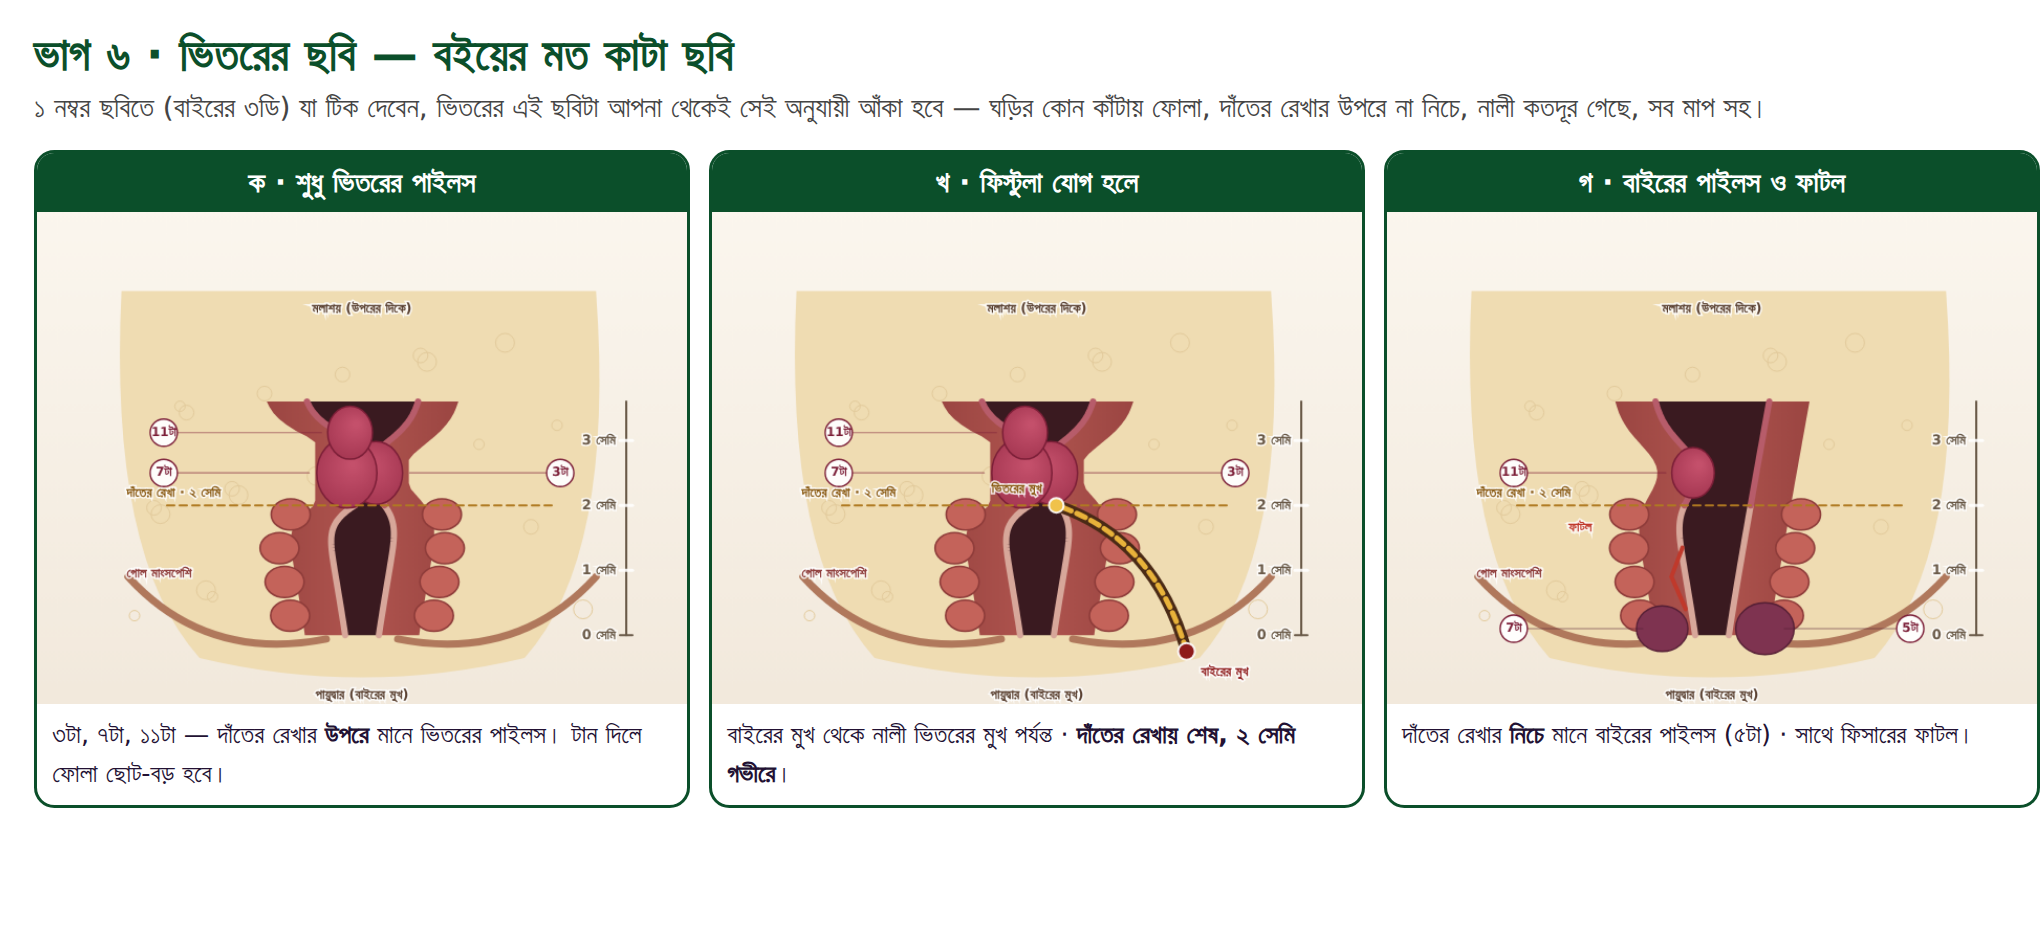
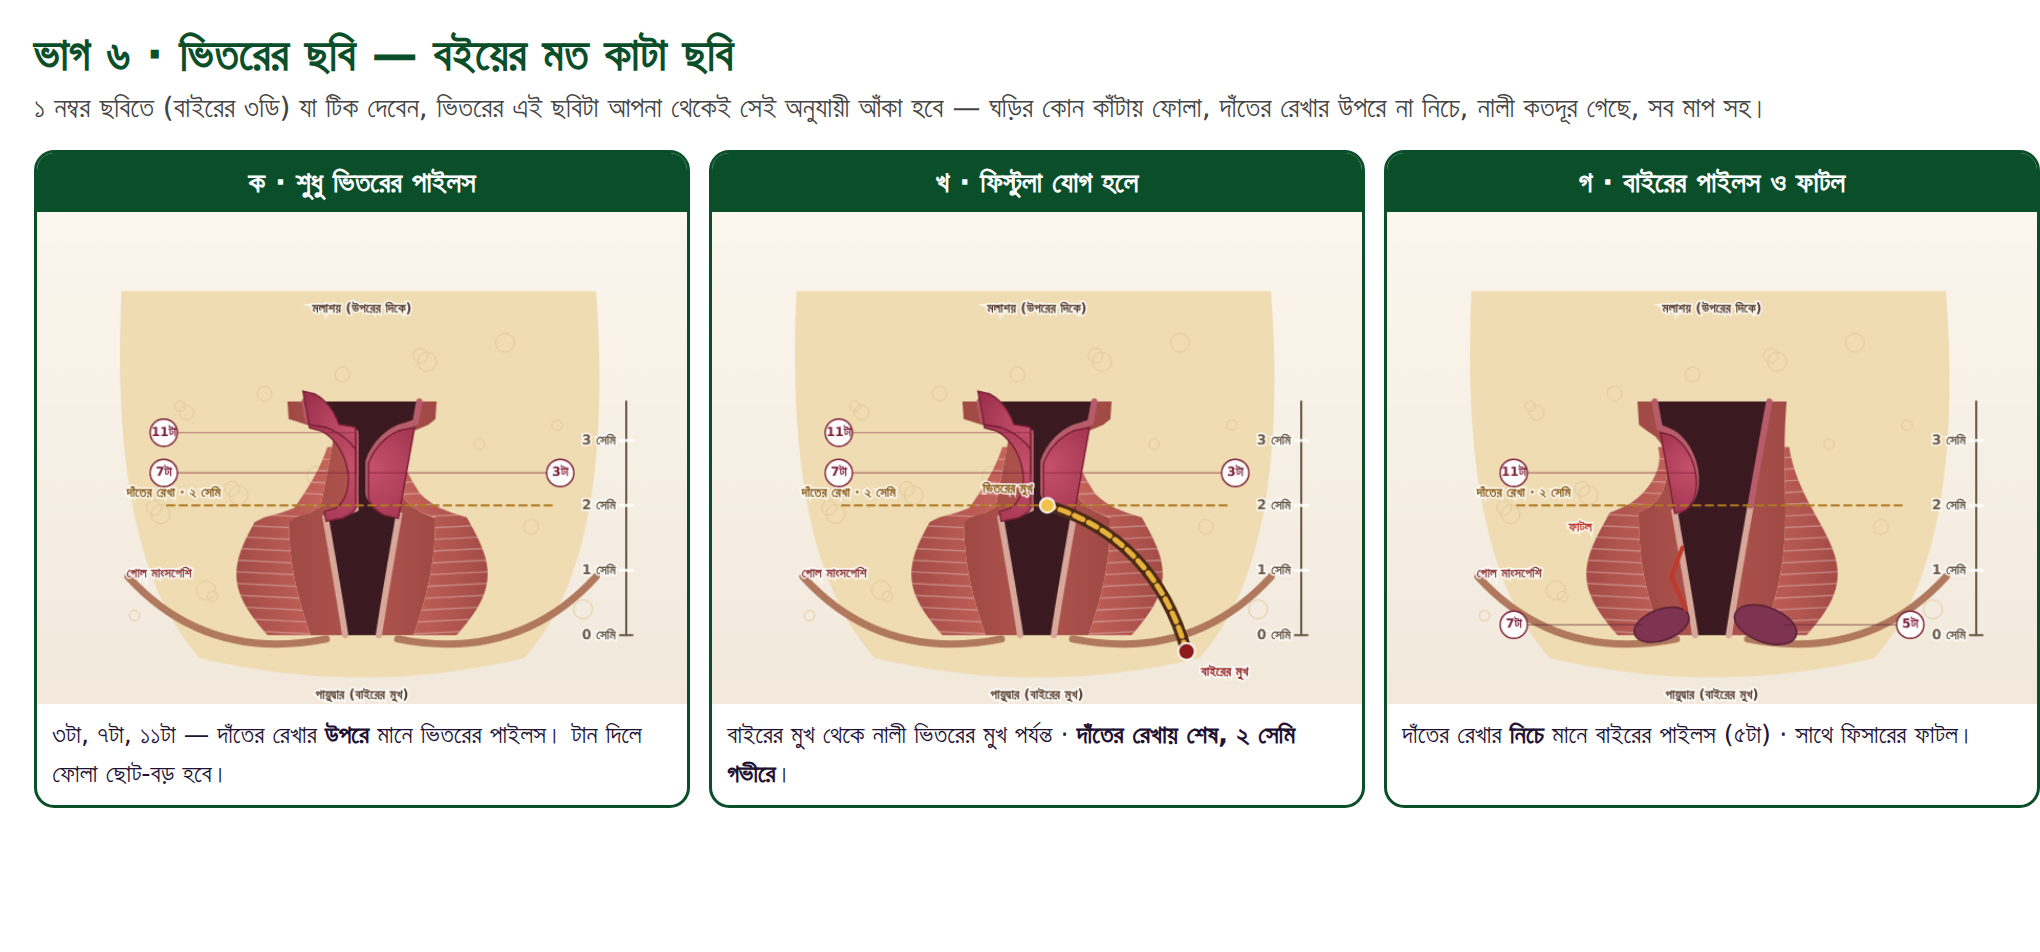
V558 demo proof: the internal piles now read as wall cushions, not balloons
TK said the internal view looked like balloons. He was right: each pile was
drawn as a free-floating ellipse in the lumen, and the external sphincter as a
chain of circles. Both are now anatomical: a pile is the swelling of the wall
itself, filled between the bulged lining and where the wall would sit without
it, with a rounded (half-round) profile rather than a pointed lens; the
sphincter is a muscle band with fibre striations, thick near the opening and
thinning as it rises.

Claude-Session: https://claude.ai/code/session_01F8MQWDjf5mWR1Rkj87vdLQ

Changed region(s): [[0.7103, 0.4265, 0.9574, 0.7006], [0.4324, 0.396, 0.5868, 0.6702], [0.0926, 0.396, 0.2471, 0.6702]]

diff --git a/V558_ANATOMY_SECTION_DEMO_SOURCE.js b/V558_ANATOMY_SECTION_DEMO_SOURCE.js
@@ -20,13 +20,20 @@
       var p = piles[i];
       if (!p.inner) continue;
       if (pileSide(p) !== side) continue;
-      var t = (hcm - (p.hcm || (DENTATE_CM + 0.55))) / 0.55;
-      w -= p.size * 0.85 * Math.exp(-t * t);
+      // ফোলাটা গোলগাল — দেওয়ালের গায়ে বসানো অর্ধেক গোলার মত (পাতার মত ছুঁচোলো নয়)
+      var R = pileRange(p);
+      var t = (hcm - (p.hcm || (DENTATE_CM + 0.55))) / R;
+      if (t > -1 && t < 1) w -= p.size * 0.78 * Math.sqrt(1 - t * t);
     }
     return Math.max(0.10, w);
   }
   // ঘড়ির কাঁটা থেকে বোঝা যায় ফোলাটা বাঁ না ডান দেওয়ালে
   function pileSide(p) { return Math.cos(p.a) >= 0 ? 1 : -1; }
+  function pileRange(p) { return 0.46 + 0.30 * p.size; }
+
+  // পেশির পুরুত্ব: নিচে (মুখের কাছে) মোটা, উপরে আস্তে আস্তে মিলিয়ে যায়
+  function INT_T(h) { return 0.20 + 0.44 * Math.exp(-Math.pow((h - 1.0) / 1.9, 2)); }
+  function EXT_T(h) { return INT_T(h) + 0.90 * Math.exp(-Math.pow((h - 0.75) / 1.35, 2)); }
 
   var C_FAT   = '#EFDCB2', C_FAT2 = '#E3CB9C';
   var C_SKIN  = '#B0785C', C_MUSC = '#B0554F', C_MUSC2 = '#8E3C3A';
@@ -71,22 +78,32 @@
     [-1, 1].forEach(function (side) {
       ctx.beginPath();
       wallPath(ctx, cx, cy, piles, side, 0, false, 0, CANAL_CM);
-      wallPath(ctx, cx, cy, piles, side, 0.62, true, 0, CANAL_CM);
+      wallPath(ctx, cx, cy, piles, side, INT_T, true, 0, CANAL_CM);
       ctx.closePath();
       var lg = ctx.createLinearGradient(cx, 0, cx + side * 2.4 * CM, 0);
       lg.addColorStop(0, C_MUSC); lg.addColorStop(1, C_MUSC2);
       ctx.fillStyle = lg; ctx.fill();
     });
-    /* ---- বাইরের গোল পেশি (external sphincter) — গোল গোল কাটা মুখ ---- */
+    /* ---- বাইরের গোল পেশি (external sphincter) — মাংসের বলয়, আঁশের দাগ সহ ---- */
     [-1, 1].forEach(function (side) {
-      for (var k = 0; k < 4; k++) {
-        var hh = 0.30 + k * 0.52;
-        var w = halfWidth(hh, piles, side) + 0.80;
-        var p = px(ctx, cx, cy, side * w, hh);
-        ctx.beginPath(); ctx.ellipse(p[0], p[1], 0.30 * CM, 0.24 * CM, 0, 0, 6.3);
-        ctx.fillStyle = '#C4635A'; ctx.fill();
-        ctx.strokeStyle = '#8E3C3A'; ctx.lineWidth = 1.6; ctx.stroke();
+      ctx.save();
+      ctx.beginPath();
+      wallPath(ctx, cx, cy, piles, side, INT_T, false, 0, 2.9);
+      wallPath(ctx, cx, cy, piles, side, EXT_T, true, 0, 2.9);
+      ctx.closePath();
+      var lg2 = ctx.createLinearGradient(cx + side * 0.6 * CM, 0, cx + side * 2.2 * CM, 0);
+      lg2.addColorStop(0, '#C4635A'); lg2.addColorStop(1, '#9E4744');
+      ctx.fillStyle = lg2; ctx.fill();
+      ctx.clip();
+      ctx.strokeStyle = 'rgba(255,255,255,0.30)'; ctx.lineWidth = 1.4;   // মাংসের আঁশ
+      for (var k = 0; k < 16; k++) {
+        var yy = cy - k * 0.18 * CM;
+        ctx.beginPath();
+        ctx.moveTo(cx + side * 0.4 * CM, yy);
+        ctx.lineTo(cx + side * 2.4 * CM, yy - 0.10 * CM);
+        ctx.stroke();
       }
+      ctx.restore();
     });
 
     /* ---- নালীর ফাঁকা জায়গা ---- */
@@ -106,34 +123,46 @@
       ctx.restore();
     });
 
-    /* ---- ভিতরের পাইলস — লাল ফোলা, ঘড়ির নম্বর সহ ---- */
+    /* ---- ভিতরের পাইলস — দেওয়ালের গা থেকেই ফুলে ওঠে (আলাদা বল নয়) ---- */
     var stackL = 0, stackR = 0;
     piles.forEach(function (p) {
       if (!p.inner) return;
       var side = pileSide(p);
       var n = side > 0 ? stackR++ : stackL++;
-      var hh = p.hcm = DENTATE_CM + 0.50 + n * 0.62;
-      var w = halfWidth(hh, piles, side);
-      var c = px(ctx, cx, cy, side * (w + p.size * 0.14), hh);
+      p.hcm = DENTATE_CM + 0.50 + n * 0.62;
+      var others = piles.filter(function (q) { return q !== p; });
+      var R2 = pileRange(p);
+      var h0 = p.hcm - R2, h1 = p.hcm + R2, N = 30, i;
       ctx.beginPath();
-      ctx.ellipse(c[0], c[1], (0.14 + p.size * 0.34) * CM, (0.18 + p.size * 0.38) * CM, 0, 0, 6.3);
-      var rg = ctx.createRadialGradient(c[0] - side * 6, c[1] - 8, 3, c[0], c[1], (0.3 + p.size * 0.5) * CM);
+      for (i = 0; i <= N; i++) {                       // ফোলা দেওয়ালের কিনারা
+        var hh = h0 + (h1 - h0) * (i / N);
+        var pt = px(ctx, cx, cy, side * halfWidth(hh, piles, side), hh);
+        if (i === 0) ctx.moveTo(pt[0], pt[1]); else ctx.lineTo(pt[0], pt[1]);
+      }
+      for (i = N; i >= 0; i--) {                       // ফোলা না থাকলে দেওয়াল যেখানে থাকত
+        var hb = h0 + (h1 - h0) * (i / N);
+        var pb = px(ctx, cx, cy, side * halfWidth(hb, others, side), hb);
+        ctx.lineTo(pb[0], pb[1]);
+      }
+      ctx.closePath();
+      var cc = px(ctx, cx, cy, side * halfWidth(p.hcm, piles, side), p.hcm);
+      var rg = ctx.createRadialGradient(cc[0] + side * 4, cc[1] - 6, 2, cc[0], cc[1], (0.35 + p.size) * CM);
       rg.addColorStop(0, '#C4506B'); rg.addColorStop(1, C_PILE);
       ctx.fillStyle = rg; ctx.fill();
-      ctx.strokeStyle = '#7C1F38'; ctx.lineWidth = 1.5; ctx.stroke();
+      ctx.strokeStyle = '#7C1F38'; ctx.lineWidth = 1.4; ctx.stroke();
       var tx = cx + side * 3.05 * CM;
       ctx.strokeStyle = 'rgba(124,31,56,0.55)'; ctx.lineWidth = 1.2;
-      ctx.beginPath(); ctx.moveTo(c[0] + side * (0.2 + p.size * 0.4) * CM, c[1]); ctx.lineTo(tx, c[1]); ctx.stroke();
-      tag(ctx, tx, c[1], clockText(p.a) + 'টা');
+      ctx.beginPath(); ctx.moveTo(cc[0], cc[1]); ctx.lineTo(tx, cc[1]); ctx.stroke();
+      tag(ctx, tx, cc[1], clockText(p.a) + 'টা');
     });
     /* ---- বাইরের পাইলস — দাঁতের রেখার নিচে, মুখের কাছে ---- */
     piles.forEach(function (p) {
       if (p.inner) return;
-      var side = pileSide(p), hh = 0.10;
+      var side = pileSide(p), hh = 0.16;
       var w = halfWidth(hh, piles, side);
       var c = px(ctx, cx, cy, side * (w + 0.30 + p.size * 0.32), hh);
       ctx.beginPath();
-      ctx.ellipse(c[0], c[1], (0.18 + p.size * 0.36) * CM, (0.16 + p.size * 0.32) * CM, 0, 0, 6.3);
+      ctx.ellipse(c[0], c[1], (0.20 + p.size * 0.40) * CM, (0.12 + p.size * 0.20) * CM, side * 0.35, 0, 6.3);
       ctx.fillStyle = '#7E3350'; ctx.fill();
       ctx.strokeStyle = '#551F35'; ctx.lineWidth = 1.4; ctx.stroke();
       var tx2 = cx + side * 3.05 * CM;
@@ -194,7 +223,8 @@
     for (i = 0; i <= N; i++) {
       var t = reverse ? (N - i) / N : i / N;
       var hh = lo + (hi - lo) * t;
-      var w = halfWidth(hh, piles, side) + off;
+      var o = (typeof off === 'function') ? off(hh) : off;
+      var w = halfWidth(hh, piles, side) + o;
       var p = px(ctx, cx, cy, side * w, hh);
       if (first && !reverse) { ctx.lineTo(p[0], p[1]); first = false; }
       else ctx.lineTo(p[0], p[1]);
